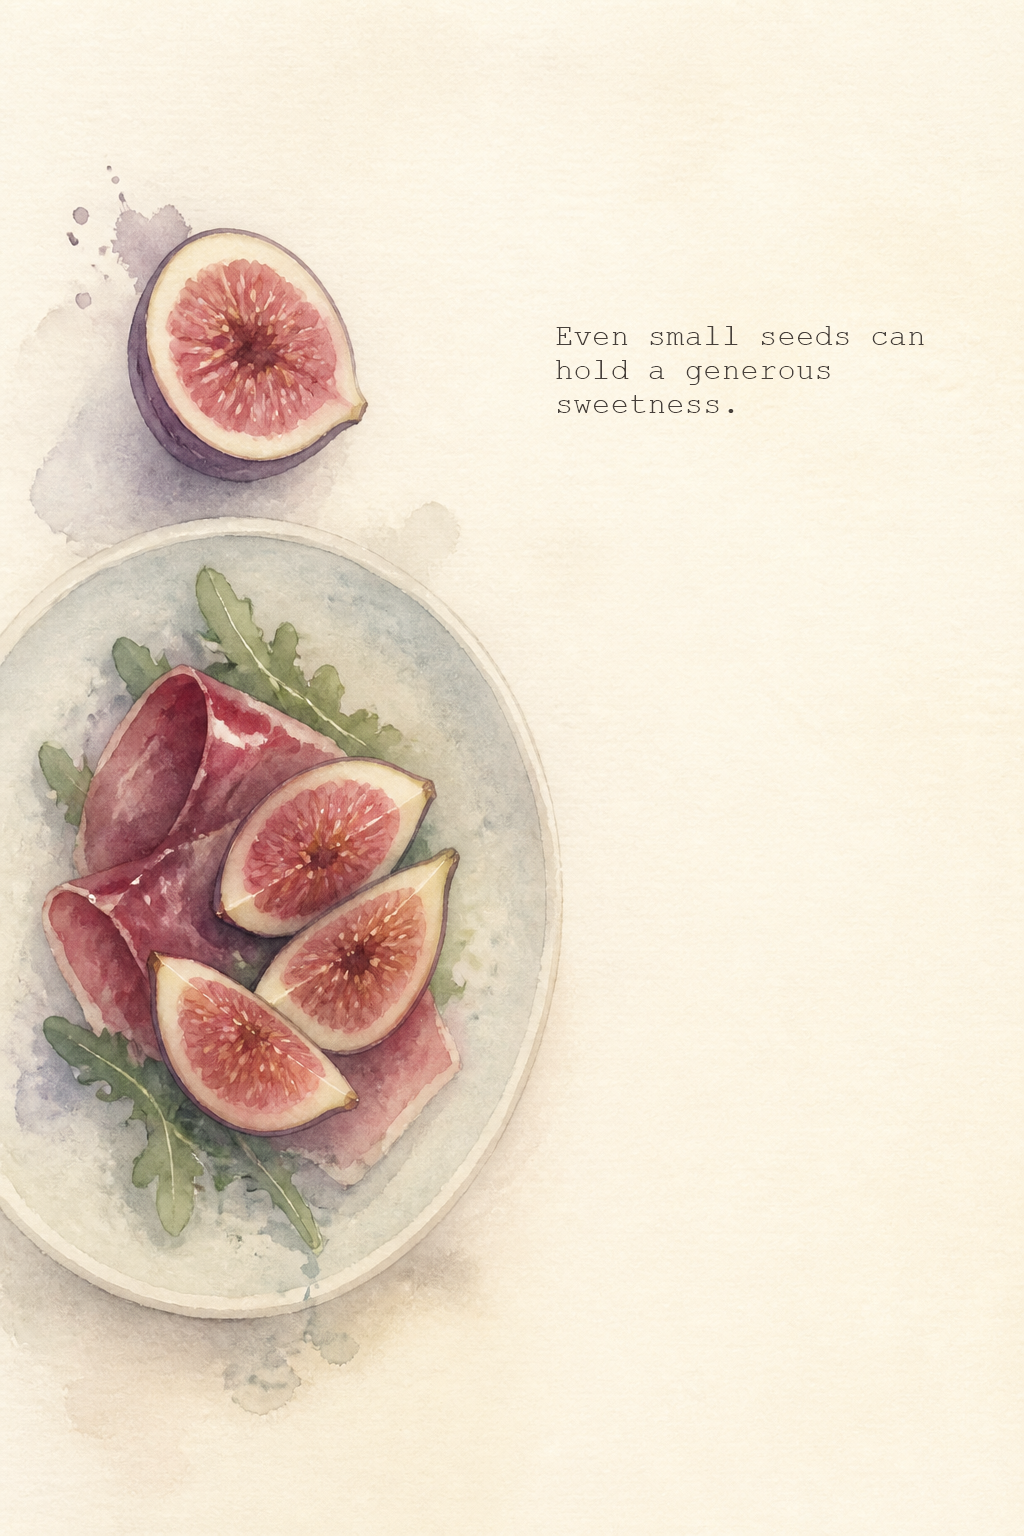
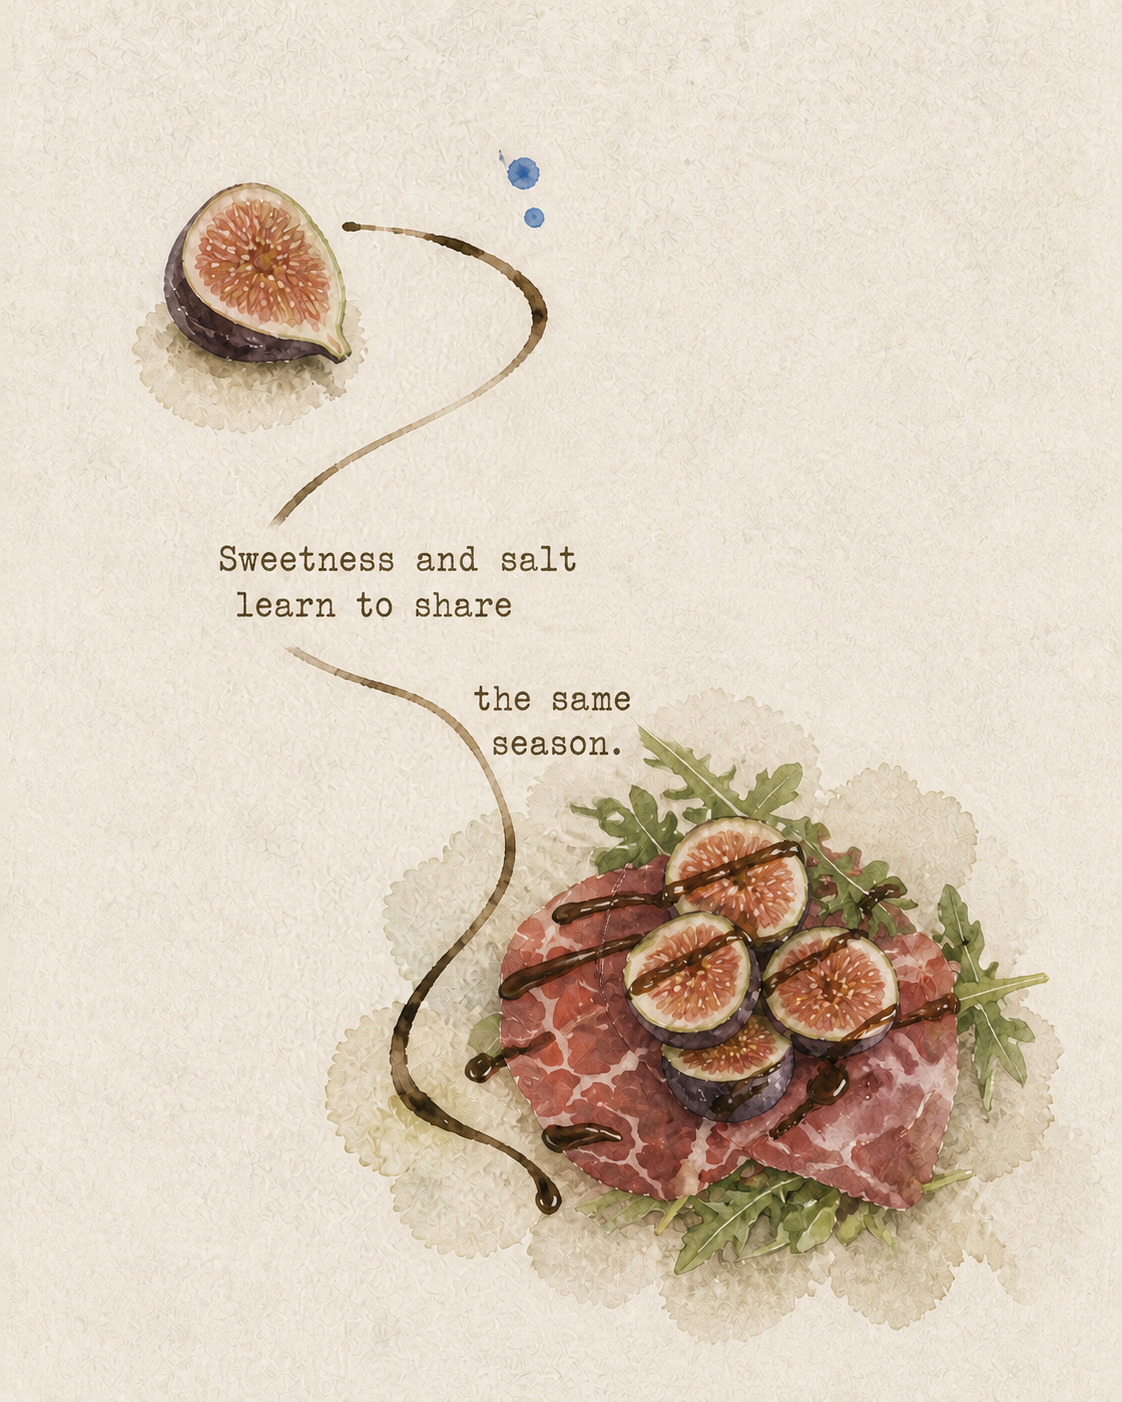
Refine poetic collage style and examples

diff --git a/SKILL.md b/SKILL.md
@@ -1,65 +1,67 @@
 ---
 name: food-watercolor-study
-description: Transform a user-supplied food or drink photograph into a fresh, hand-painted watercolor study that isolates the edible subject, ignores incidental background, optionally arranges ingredient or cutaway details, and pairs it with a food-related philosophical English fortune. Use when users ask to stylize food photos as gentle watercolor illustrations, food diary art, recipe-card art, or an exploded food composition.
+description: Transform a user-supplied food or drink photograph into a poetic watercolor scrapbook collage that preserves the recognizable prepared food, removes incidental background, adds selective food breakdowns and associative symbols, and integrates a food-related philosophical English fortune into the visual path. Use when users ask to stylize food photos as naive watercolor illustrations, poetic food diaries, scrapbook art, recipe-card art, or exploded food compositions.
 ---
 
 # Food Watercolor Study
 
 ## Overview
 
-Create a quiet editorial watercolor illustration, not a photo filter or literal food-photo redraw. Preserve the recognizable prepared dish: its cooking state, main ingredients, and the basic serving relationship. Simplify repeated pieces, background, and incidental garnish, but never reduce a composed dish to an unrelated ingredient specimen.
+Create a poetic watercolor scrapbook page, not a photo filter, literal redraw, or polished commercial food illustration. Preserve the recognizable prepared dish: its cooking state, main ingredients, and basic serving relationship. Simplify repeated pieces and incidental garnish, but never abstract the food until it loses its identity.
 
 ## Workflow
 
 1. Inspect the supplied image. Identify the prepared dish, its cooking state, its hero ingredient, and 1–2 essential pairings (for example, roasted squash with creamy dip; figs with cured ham and leaves; roasted cauliflower with onion and cream). Keep those relationships.
-2. Choose a composition:
-   - **Dish vignette (default for a composed plate):** keep a simplified pale bowl or plate with the cooked hero and essential pairing(s); reduce the portions and loose detail rather than removing the dish context.
-   - **Food breakdown:** retain the simplified prepared dish plus 1–3 separate cut faces, ingredients, or process states only when they clarify it.
-   - **Single study:** use only for a naturally standalone food or drink.
-   Do not reproduce the exact food count, garnish arrangement, sauce pattern, or camera angle from the photo, but retain enough of the dish's structure that it is immediately recognizable.
-3. Choose one layout from the layout system below. Vary it between outputs unless the user requests a placement.
-4. Write one food-linked English fortune using the rules below. Do not reuse generic motivational copy.
-5. Use image generation or image editing with the food photo as the reference. Do not retain the original background.
-6. Check the result against the quality bar. Regenerate if the food is unrecognizable, the background competes, the texture looks digital, or too many objects remain.
+2. Extract a compact visual vocabulary:
+   - Keep one hero presentation of the prepared food.
+   - Select 1–3 food-derived echoes: a cut face, seed, ice cube, leaf, sauce drop, rind, steam mark, utensil, or simplified ingredient. Keep only the most expressive supporting food states; do not inventory every component.
+   - Add 2–4 restrained associative marks derived from the food's form or meaning: a few stars or dots, one botanical sprig, one tiny diagram, or one translucent paper patch. Do not add arbitrary narrative objects.
+   - Start by removing repeated food portions, not all supporting life. For a detailed prepared dish, prefer the hero plus two or three small supporting studies and a handful of quiet marks. Never show every ingredient, every serving, and every symbol at once.
+3. Create a natural visual relationship using staggered placement, scale contrast, repeated colors or forms, partial overlap, and the direction of real food shapes. Let the eye drift between objects without an imposed connector. Use a literal sauce trail, stem, steam path, orbit, or dotted arc only when it genuinely belongs to the pictured food or dish; never add one merely to manufacture motion.
+4. Write one food-linked English fortune using the rules below. Plan its fragments and reading order before rendering.
+5. Generate the illustration text-free with the food photo as the content reference. Remove the original background completely.
+6. Add the exact fortune in a second pass. Treat it as part of the collage rather than a caption.
+7. Check the result against the quality bar. Regenerate if the food is unrecognizable, the page feels like a polished menu illustration, the symbols are arbitrary, the text is inaccurate, or the composition lacks a clear visual path.
 
-## Layout System
+## Composition System
 
-Select one layout deliberately; never default to food in the lower-right with text in the upper-left.
+Choose one visual path deliberately. Never default to one hero dish plus a rectangular caption area.
 
-- **Corner dialogue:** hero dish in either lower corner; fortune in the opposing upper area; one small ingredient bridges the diagonal.
-- **Top shelf:** food spread loosely across the upper third; fortune low and offset; the lower page remains mostly open.
-- **Bottom shelf:** low, centered dish with a small detail above; fortune sits beside—not directly over—the detail.
-- **Side column:** a vertical run of two or three food studies on one side; fortune occupies the neighboring open column.
-- **Floating constellation:** hero dish off-center with 1–3 small separated ingredients around it; fortune nests in the largest remaining calm area.
-- **Centered pause:** a small centered or upper-centered dish, wide paper margins, and a discreet fortune near the lower edge.
+- **Orbit:** place a round food or drink off-center; let smaller ingredients, drops, seeds, or ice follow curved paths around it.
+- **Falling sequence:** repeat 2–4 simplified food states vertically or diagonally, moving from whole to cut, raw to cooked, or solid to melted.
+- **Scrapbook islands:** place the hero and selected details on irregular pale wash or torn-paper patches with uneven gaps between them.
+- **Botanical drift:** let leaves, stems, real sauce, or steam create a natural diagonal relationship between separated food studies and text fragments; do not draw a connector just to link them.
+- **Constellation:** scatter a hero, two food echoes, pigment dots, and small celestial marks across wide paper, using large scale contrast.
+- **Quiet diagram:** combine one recognizably rendered food with simple childlike geometric studies of its shape, layers, seeds, or color.
 
-Let the food's shape choose the layout: tall drinks suit side columns; round bowls suit bottom shelves or centered pauses; slices and ingredients suit floating constellations. Keep the fortune in a clear quiet area, but vary its alignment, vertical position, and line breaks. For a set of images, do not reuse the same layout twice in a row.
+Vary scale strongly: one hero may be three to six times larger than a supporting study. Use asymmetry and generous unoccupied paper, but retain enough small food cues for the page to feel inhabited rather than static. Create continuity through visual rhythm—placement, repeated colors/forms, partial overlap, and the direction of leaves, slices, or authentic drips—not a compulsory visible line. Rotate or stagger small elements when useful, but keep the food upright enough to read. For a set, do not reuse the same visual path twice in a row.
 
 ## Art Direction
 
-- Use warm ivory, subtly fibrous watercolor paper with generous negative space.
-- Paint with translucent layered washes, soft pigment blooms, slight uneven edges, occasional granulation, and restrained fine dark outlines only where they clarify form.
-- Keep shapes simplified and slightly naive; use clear silhouettes and believable internal details such as seeds, rind, crumb, crema, layers, pulp, or ice.
-- Work like a small visual poem: favor a pared-back but recognizable serving over a full plate reconstruction. Retain the dish's essential pairings; omit repeated pieces and decorative clutter.
-- Use a fresh, low-saturation palette: warm paper `#F4F0E7`, mist blue `#A9BDD0`, washed cobalt `#4F84B8`, leaf green `#739B58`, citrus yellow `#E6C75A`, peach `#E8AD86`, soft terracotta `#B96A54`, cocoa `#775544`, and charcoal-brown `#3C3630`.
-- Allocate one dominant food color, one cool accent, and one quiet neutral. Avoid glossy highlights, neon color, heavy black contouring, dense shadows, or a polished 3D-render look.
+- Use warm ivory or oatmeal fibrous paper. Make the paper grain, faint stains, deckled wash edges, and pigment granulation visible at normal size.
+- Paint with low-fidelity translucent washes, soft bleeding edges, blooms, dry-brush gaps, and slight registration imperfections. Preserve charming awkwardness instead of polishing every contour.
+- Keep the hero food recognizable through silhouette, cooking state, color relationships, and a few truthful internal details such as seeds, rind, char, layers, pulp, crumb, or ice. Render supporting studies more naively and diagrammatically.
+- Mix observational food painting with flat childlike symbols. Use faint wash rectangles or irregular paper islands behind selected objects; do not frame every object.
+- Work like a poetic visual diary: suggest associations through scale, repetition, and visual rhyme. An orange may echo a sun, ice may become a falling sequence, seeds may resemble stars, and steam may become a path—but the food must remain food.
+- Limit each page to one dominant food color, one cool accent, and one paper neutral. Suggested palette: paper `#F3EBDD`, faded cobalt `#637EAF`, periwinkle `#9EACCE`, moss `#788B49`, pale lime `#B6C16B`, tangerine `#D98738`, dusty red `#B85F51`, cocoa `#775B49`, charcoal `#34312E`.
+- Prefer flat graphic space and very light grounding. Avoid glossy highlights, dense cast shadows, photographic depth, heavy black contours, neon color, smooth digital gradients, symmetrical grids, or polished commercial-menu rendering.
 
 ## Prompt Template
 
 Adapt the bracketed fields; state the food identity before describing the style.
 
 ```text
-Use the uploaded photo only as reference for [FOOD / DRINK]. Ignore and remove its background.
-Create a hand-painted watercolor food study on warm ivory textured paper: [COMPOSITION].
-Make [HERO SUBJECT] the focus while preserving its prepared-dish context: [1–2 ESSENTIAL PAIRINGS]
-and a simplified pale [BOWL / PLATE] if present. Optionally include [1–3 SELECTED DETAILS]
-only if they clarify the dish. Simplify repeated pieces and freely rearrange everything else,
-but keep the cooking state, essential pairings, and broad serving relationship recognizable.
-Do not recreate the exact food count, garnish layout, sauce pattern, or camera angle. Use translucent layered washes, subtle granulation, soft feathered edges,
-and sparse brown ink-like definition. Palette: fresh muted [DOMINANT COLOR], mist blue,
-leaf green, citrus yellow, peach, and warm neutrals. Airy editorial arrangement, generous
-negative space, no original setting, no photorealism, no glossy 3D rendering, no clutter,
-use the selected [LAYOUT] and reserve its largest quiet area for a short English fortune; no generated text, watermark, or logo.
+Use case: style-transfer
+Asset type: vertical poetic food-diary illustration
+Input images: Image 1 is the food-content reference; any other images are visual-language references only.
+Primary request: remove the original background and reinterpret [FOOD / DRINK] as a poetic watercolor scrapbook collage.
+Subject: keep [HERO SUBJECT], its cooking state, [1–2 ESSENTIAL PAIRINGS], and broad serving relationship immediately recognizable. Simplify repeated portions but do not replace the prepared dish with unrelated ingredient specimens.
+Composition: use [VISUAL PATH]. Arrange the hero, [1–3 FOOD-DERIVED ECHOES], and [2–4 RESTRAINED ASSOCIATIVE MARKS] so they feel naturally related through placement, scale, repeated color/form, overlap, and directional food shapes. Use a literal sauce trail, stem, steam path, orbit, or dotted arc only if it naturally belongs to [FOOD-NATIVE TRACE]; never use a connector solely to create motion. Mix scales strongly and leave generous irregular paper space.
+Style/medium: low-fidelity naive watercolor on fibrous oatmeal paper; translucent granular washes, pigment blooms, bleeding edges, faint stains, childlike geometry, occasional torn-paper wash islands, sparse imperfect outlines.
+Color palette: [DOMINANT FOOD COLOR], one faded cobalt or periwinkle accent, moss or pale lime where relevant, and warm paper neutrals.
+Text: none in the first pass; reserve calm spaces across the collage for the fortune.
+Constraints: preserve food identity and truthful internal details; make associations food-derived; keep the page asymmetrical, airy but inhabited, and never crowded.
+Avoid: original background, exact photographic arrangement, polished menu illustration, photorealism, glossy rendering, dense shadows, smooth gradients, arbitrary decorative objects, crowded ingredient inventories, repeated garnish studies, generated letters, logos, watermark, UI.
 ```
 
 ## Food Fortune
@@ -70,22 +72,26 @@ Pair every composition with one original English line that feels like a gentle f
 - Use 5–15 words, one sentence, present tense, and plain evocative English. Favor a calm insight over a joke, slogan, command, or pun.
 - Do not make health, medical, moral, or factual claims. Do not use famous quotations or wording that closely resembles them.
 - Generate the fortune before rendering. Return it in the response as `Fortune: “…”`.
-- For a final image with reliable lettering, render the illustration text-free, then overlay the exact approved fortune afterward in a small typewriter-like or softly imperfect serif face, charcoal-brown, with ample breathing room. Never rely on an image model to spell the fortune correctly.
+- Render the illustration text-free, then add the exact approved fortune afterward in a small vintage typewriter-like serif face, charcoal or faded cobalt. Break it into 2–4 short fragments when this strengthens the visual path. Keep reading order obvious and never split a word. Vary alignment, rotation, and position subtly; do not place every fortune in one fixed corner. Never rely on an image model to spell the fortune correctly without verification.
 
 Examples: apple — “What ripens slowly remembers the sun.”; coffee — “Some answers arrive only after the water warms.”; kiwi — “Small seeds can make a bright beginning.”; bread — “Time gives warmth a place to rise.”
 
 ## Quality Bar
 
 - The food is immediately recognizable and visually dominant.
-- The image reads as a simplified visual interpretation, not an inventory or near-copy of the photo, while remaining identifiable as the original prepared dish.
+- The image reads as a poetic scrapbook collage, not an inventory, near-copy, menu illustration, or decorative ingredient chart, while remaining identifiable as the original prepared dish.
 - The source background is absent rather than merely blurred.
 - A breakdown contains no more than three selected details and adds understanding instead of turning into a complete ingredient inventory; it does not replace the actual dish.
 - Paper texture, translucent pigment, and imperfect wash edges are visible at normal viewing size.
-- The layout is sparse, balanced, and uses the muted fresh palette.
-- The layout is chosen from the layout system and does not mechanically repeat the lower-right-food / upper-left-text arrangement.
+- The page has natural visual rhythm, strong scale contrast, asymmetry, and generous unoccupied paper.
+- Motion comes from spatial rhythm—placement, repeated form/color, overlap, and the natural direction of food shapes—not a forced connector line.
+- One to three food-derived echoes and two to four restrained associative marks support the hero without competing with it.
+- The page feels airy but inhabited: one hero plus a small, edited group of supporting elements, never a complete ingredient inventory.
+- The palette is intentionally limited and the rendering retains naive irregularity rather than polished realism.
+- The composition is chosen from the composition system and does not mechanically repeat a plate-and-caption arrangement.
 - The fortune is original, readable, 5–15 words, and clearly tied to the food rather than being a generic inspirational caption.
 - Exclude illegible generated text, logos, UI fragments, frames, and accidental photorealistic debris.
 
 ## Example Direction
 
-For a photo of a strawberry shortcake: make the plated slice the hero; surround it with a halved strawberry, a cream-and-sponge cross-section, and two loose crumbs. Keep the plate pale and translucent, the red as a softened strawberry wash, and leave most of the paper blank.
+For a photo of a strawberry shortcake: make the plated slice recognizable but imperfect; let two strawberry states fall diagonally toward it, echo the seeds as tiny faded stars, place one cream-and-sponge cross-section on a pale torn-paper wash, and weave the fortune through the remaining paper in short typewriter fragments.

diff --git a/README.md b/README.md
@@ -1,38 +1,61 @@
 # Food Watercolor Study
 
-A Codex skill for turning food and drink photos into airy watercolor food-diary illustrations, paired with a short food-linked English fortune.
+Turn food and drink photos into recognisable poetic visual diaries: naive watercolor, handmade-paper collage, food-derived symbols, and a short English fortune woven into the page.
 
-It preserves the recognizable prepared dish—its cooking state, key pairings, and serving relationship—while removing the original setting and simplifying repeated detail. Layouts vary deliberately, so food and text do not always appear in the same positions.
+The skill keeps a dish's cooking state, key pairings, and serving relationship, while removing the original setting and simplifying incidental detail.
 
-## What it creates
+## Style catalogue
 
-- Warm ivory paper, translucent watercolor washes, and restrained hand-painted outlines.
-- A simplified but recognizable prepared dish or drink.
-- One to three optional ingredient or cutaway details.
-- A calm, original English fortune placed in the composition's remaining negative space.
+### Poetic Collage / 诗意拼贴 — default mode
+
+The core style is a **poetic watercolor scrapbook collage** rather than a photo filter or polished menu illustration. It pairs a clearly recognisable hero dish with small food echoes—such as a cut face, seed, ice cube, sauce drop, leaf, or steam mark—and lets them form a visual association.
+
+Its material language combines fibrous oatmeal paper, translucent granular pigment, blooms, deckled wash edges, dry-brush gaps, faint stains, irregular pale paper islands, and small vintage typewriter-style text. The page feels hand-painted, slightly awkward, quiet, and alive through natural visual rhythm: staggered placement, repeated colors/forms, partial overlap, and the direction of leaves, slices, or authentic drips. A visible line appears only when sauce, stem, steam, or another trace belongs naturally to the food; it is never drawn merely to force motion.
+
+### Composition families
+
+These are not separate art styles. They are different page structures inside the Poetic Collage language, so the results stay varied without losing their shared visual identity.
+
+| Type | What it does | Best for |
+| --- | --- | --- |
+| **Orbit / 轨道** | Guides the eye around a drink or round food using curved lines, dots, seeds, or ice. | Iced drinks, citrus, round bowls, fruit. |
+| **Falling Sequence / 坠落序列** | Arranges whole, cut, cooked, or melting states in a loose vertical or diagonal sequence. | Slices, pastries, roasted vegetables, fruit. |
+| **Scrapbook Islands / 拼贴岛屿** | Places hero food and small studies on irregular translucent wash or torn-paper patches. | Shared meals, plated dishes, multi-part foods. |
+| **Botanical Drift / 植物漂流** | Lets leaves, stems, real sauce, or steam create a natural diagonal relationship between separated elements. | Salads, herbs, fruit, tea, dishes with greens. |
+| **Constellation / 食物星座** | Scatters food details, pigment dots, and restrained celestial marks across open paper. | Ingredients with small repeatable details: seeds, crumbs, berries, ice. |
+| **Quiet Diagram / 安静图解** | Pairs one recognisable food with simple childlike studies of its layers, sections, or geometry. | Cauliflower, cakes, layered foods, drinks, cut fruit. |
+
+## What every image keeps
+
+- A simplified but immediately recognisable prepared dish or drink.
+- One to three selected food-derived echoes, never a complete ingredient inventory.
+- A limited palette: dominant food color, faded cobalt or periwinkle accent, and warm paper neutral.
+- Strong scale contrast, asymmetry, and generous open paper.
+- An airy but inhabited page: one hero, a small edited group of food studies and quiet marks, and plenty of breathing room.
+- A calm original English fortune, added in a second pass and arranged as part of the visual path.
 
 ## Use
 
-Upload a food or drink photo and ask Codex to use `$food-watercolor-study`. The skill identifies the dish, selects an appropriate layout, creates the watercolor illustration, then overlays a precise, readable fortune.
+Upload a food or drink photo and ask Codex to use `$food-watercolor-study`. The skill identifies the dish, selects the most suitable composition family, creates the text-free watercolor collage, then adds a precise, readable food-linked fortune.
 
-## Examples
+## Updated examples
 
-### Roasted squash with herb dip
+### Roasted squash with herb dip — Orbit + Falling Sequence
 
 ![Roasted squash with herb dip](examples/roasted-squash.png)
 
-### Fig and prosciutto salad
+### Fig and prosciutto salad — Botanical Drift
 
 ![Fig and prosciutto salad](examples/fig-salad.png)
 
-### Roasted cauliflower with onion ribbons
+### Roasted cauliflower with onion ribbons — Quiet Diagram + Constellation
 
 ![Roasted cauliflower with onion ribbons](examples/roasted-cauliflower.png)
 
-### Home-style chicken and vegetables
+### Home-style chicken and vegetables — Scrapbook Islands
 
 ![Home-style chicken and vegetables](examples/home-meal.png)
 
-### Iced matcha and mandarin
+### Iced matcha and mandarin — Orbit + Constellation
 
 ![Iced matcha and mandarin](examples/iced-matcha-mandarin.png)
